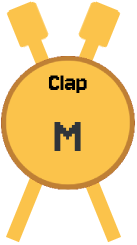
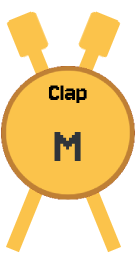
added images hover

diff --git a/src/css/drums_page.css b/src/css/drums_page.css
@@ -127,6 +127,10 @@ main{
         border-radius: 20%;
     }
 
+    .drum_piece:hover{
+        background-color:#e42727
+    }
+
     #hats_drums{
         display: flex;
         flex-direction: row;
@@ -188,6 +192,7 @@ main{
             width: 190px;
             height: 190px;
         }
+
         #ride_hat_drum_img{
             width: 190px;
             height: 190px;
@@ -226,6 +231,11 @@ main{
         #clap_drum_img{
             width: 95px;
             height: auto;
+            border-radius: 25px;
+        }
+
+        #clap_drum_img:hover{
+            background-color: #e42727;
         }
 
 
